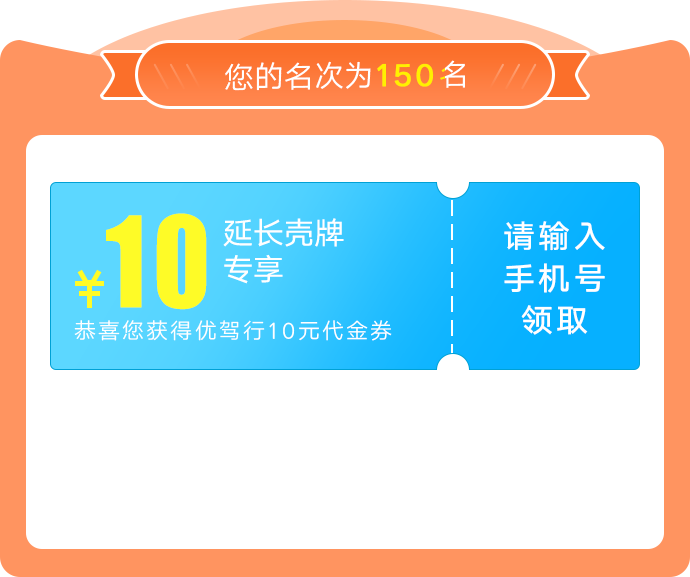
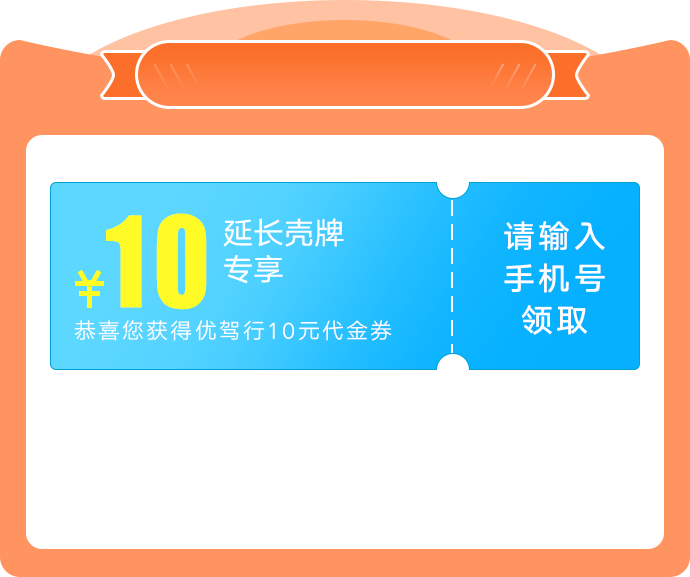
答题活动  get

Changed region(s): [[0.3043, 0.0936, 0.7, 0.156]]

diff --git a/src/app/get/get.component.ts b/src/app/get/get.component.ts
@@ -1,23 +1,56 @@
 import {Component, OnInit} from '@angular/core';
 import {Title} from '@angular/platform-browser';
-
+import {AnswerActivityService} from '../service/answerActivity.service';
+import {Router} from '@angular/router';
 @Component({
   selector: 'app-get',
   templateUrl: './get.component.html',
   styleUrls: ['./get.component.scss']
 })
 export class GetComponent implements OnInit {
-  ranking: number = 21;
+  ranking: number;
+  userRanking: number;
   showShade: boolean = false;
+  pageReward: string;
 
-
-  constructor(private title: Title) {
+  constructor(private title: Title,
+              private answerActivityService: AnswerActivityService,
+              private router: Router) {
   }
 
   ngOnInit() {
-    this.isWin();
+    this.getRewardInfo();
   }
 
+  /**
+   * 获取奖品信息
+   */
+  getRewardInfo(): void {
+    this.answerActivityService.getRewardInfo()
+      .then(res => {
+        console.log(res);
+        this.ranking = res.ranking;
+        this.ranking = 20;
+        this.userRanking = res.ranking;
+        if (res.reward = '警察公仔摆件一个') {
+          this.pageReward = './assets/img/page-address3.png';
+        }else if (res.reward = '双肩包一个') {
+          this.pageReward = './assets/img/page-address1.png';
+        }
+        this.isWin();
+      })
+      .catch(res => {
+        console.log(res);
+       if (JSON.parse(res._body).code === 'activityNotOver.answer.activity.NotRule') {
+         alert('活动尚未结束，没法获去奖品。');
+       }
+      });
+  }
+
+  /**
+   * 根据答题的名次显示中奖页面（分为ranking 50,200,201 三个级别）
+   * 及title
+   */
   isWin(): void {
     if (this.ranking <= 50) {
       this.ranking = 50;
@@ -27,18 +60,87 @@ export class GetComponent implements OnInit {
       this.ranking = 200;
       this.title.setTitle('我要领奖');
       return;
-    } else {
+    } else if (this.ranking > 200) {
+      this.ranking = 201;
       this.title.setTitle('未中奖');
       return;
     }
   }
 
-  affirm(): void {
-    this.showShade = true;
+  /**
+   * 验证input的值是否正确
+   * @param address
+   * @param mobile
+   * @param name
+   * @returns {boolean}
+   */
+  regVerify(address: string, mobile: string, name: string) {
+    if (!name) {
+      alert('请输入您的姓名！');
+      return false;
+    } else if (!(/^1[3|4|5|7|8][0-9]{9}$/.test(mobile))) {
+      alert('请输入正确的手机号！');
+      return false;
+    } else if (!address) {
+      alert('请输入您的地址！');
+      return false;
+    } else {
+      return true;
+    }
   }
 
+
+  /**
+   * 确认提交地址
+   * @param address
+   * @param mobile
+   * @param name
+   */
+  affirm(address: string, mobile: string, name: string): void {
+    if (this.regVerify(address, mobile, name)) {
+      this.answerActivityService.updateUserInfo(address, mobile, name)
+        .then(res => {
+          console.log(res);
+          this.showShade = true;
+        })
+        .catch();
+    }
+  }
+
+  /**
+   * 隐藏透明层
+   */
   hiddenShade(): void {
-    console.log(11);
     this.showShade = false;
   }
+
+  /**
+   * 跳转成功页
+   * @param mobile
+   */
+  toLinkSuccess(mobile: string): void {
+    if (!(/^1[3|4|5|7|8][0-9]{9}$/.test(mobile))) {
+      alert('请输入正确的手机号！');
+      return;
+    } else {
+      /**
+       * 领取奖品
+       * @param mobile
+       */
+      this.answerActivityService.receive(mobile)
+        .then(res => {
+          console.log(res);
+          this.router.navigate(['success']);
+        })
+        .catch(res => {
+          console.log(res);
+          if (JSON.parse(res._body) === 'rewardHasBeenReceived.answer.activity.NotRule') {
+            alert('奖品已被领取！');
+          }else if (JSON.parse(res._body) === 'rewardInfo.answer.activity.NotFound') {
+            alert('暂无奖品信息');
+          }
+        });
+    }
+  }
+
 }

diff --git a/src/app/get/get.component.html b/src/app/get/get.component.html
@@ -4,37 +4,38 @@
     <div *ngSwitchCase="50" class="bigBox">
 
       <div class="w-100 page-addr-top position-relative">
-        <img class="w-100 page-address1" src="./assets/img/page-address1.png" alt="">
-        <p class="position-absolute page-rank text-center">您的名次为<span class="px-1">150</span>名</p>
+        <img class="w-100 page-address1" [src]="pageReward" alt="">
+        <p class="position-absolute page-rank text-center">您的名次为<span class="px-1">{{userRanking}}</span>名</p>
       </div>
 
       <div class="page-addr-content py-3">
-        <input class="pl-2 py-2 w-100" type="text" placeholder="姓名">
-        <input class="pl-2 py-2 mt-2 w-100" type="tel" placeholder="电话">
-        <textarea class="w-100 pl-2 py-2 mt-2 mb-3 align-middle" name="" placeholder="地址"></textarea>
+        <input #name name="name" class="pl-2 py-2 w-100" type="text" placeholder="姓名">
+        <input #tel name="tel" class="pl-2 py-2 mt-2 w-100" maxlength="11" type="tel" placeholder="电话">
+        <textarea #address name="address" class="w-100 pl-2 py-2 mt-2 mb-3 align-middle" placeholder="地址"></textarea>
       </div>
       <div>
-        <img (click)="affirm()" class="w-75 mt-5 btn_affirm" src="./assets/img/btn_affirm.png" alt="">
+        <img (click)="affirm(name.value,tel.value,address.value)" class="w-75 mt-5 btn_affirm" src="./assets/img/btn_affirm.png" alt="">
       </div>
 
     </div>
     <div *ngSwitchCase="200" class="w-100 position-relative">
-      <img class="page-get" src="./assets/img/page-get.png" alt="">
-      <input class="position-absolute page-get-input text-center py-2" type="tel" maxlength="11"
-             placeholder="请输入手机号，领取优惠券">
-      <img class="w-75 mt-5 btn_affirm" src="./assets/img/btn_affirm.png" alt="">
-    </div>
+      <div class="w-100 page-get-top position-relative">
+        <img class="w-100 page-get" src="./assets/img/page-get.png" alt="">
+        <p class="position-absolute page-get-rank text-center">您的名次为<span class="px-1">{{userRanking}}</span>名</p>
+      </div>
 
-    <div *ngSwitchDefault class="w-100">
+      <input #couponTel class="position-absolute page-get-input text-center py-2" type="tel" maxlength="11"
+             placeholder="请输入手机号，领取优惠券">
+      <img (click)="toLinkSuccess(couponTel.value)" class="w-75 mt-5 btn_affirm" src="./assets/img/btn_affirm.png" alt="">
+    </div>
+    <div *ngSwitchCase="201" class="w-100">
       <img class="page-get-notWin" src="./assets/img/page-get-notWin.png" alt="">
       <img class="w-75 mt-5 btn_affirm" src="./assets/img/btn_affirm.png" alt="">
     </div>
-
   </div>
 </div>
-<div *ngIf="showShade" (click)="hiddenShade()" class="addr-success position-fixed">
-  <img src="./assets/img/page-addr-success.png" alt="">
-  <img src="./assets/img/button-confirm.png" alt="">
-
+<div *ngIf="showShade" (click)="hiddenShade()" class="addr-success position-fixed h-100">
+  <img class="position-absolute" src="./assets/img/page-addr-success.png" alt="">
+  <img class="position-absolute" src="./assets/img/button-confirm.png" alt="">
 </div>
-<div *ngIf="showShade" class="shade position-fixed"></div>
+<div *ngIf="showShade" class="w-100 shade position-fixed"></div>

diff --git a/src/app/get/get.component.scss b/src/app/get/get.component.scss
@@ -1,4 +1,4 @@
-/*前20名*/
+/*前50名*/
 @mixin location($width,$top,$left) {
   width: $width;
   top: $top;
@@ -44,10 +44,16 @@
 }
 
 /*前200名*/
-.page-get {
-  width: 84%;
-  margin-left: 8%;
-  margin-top: 8%;
+.page-get-top {
+  padding: 8% 5% 0 5%;
+  .page-get-rank {
+    z-index: 99;
+    color: #eee;
+    @include location(100%, 17.5%, 0);
+    span {
+      color: #fefb27;
+    }
+  }
 }
 
 .page-get-input {
@@ -68,22 +74,14 @@
 
 /*前50名领取成功透明层*/
 .addr-success {
-  width: 100%;
-  height: 100%;
-  left: 0;
-  top: 0;
   z-index: 101;
+  @include location(100%, 0, 0);
+
   img:nth-of-type(1) {
-    position: absolute;
-    width: 80%;
-    left: 10%;
-    top: 20%;
+    @include location(80%, 20%, 10%);
   }
   img:nth-of-type(2) {
-    position: absolute;
-    width: 60%;
-    left: 20%;
-    top: 63%;
+    @include location(60%, 63%, 20%);
   }
 }
 
@@ -92,7 +90,6 @@
   top: 0;
   bottom: 0;
   right: 0;
-  width: 100%;
   height: 100%;
   overflow: hidden;
   background: rgba(0, 0, 0, .7);
